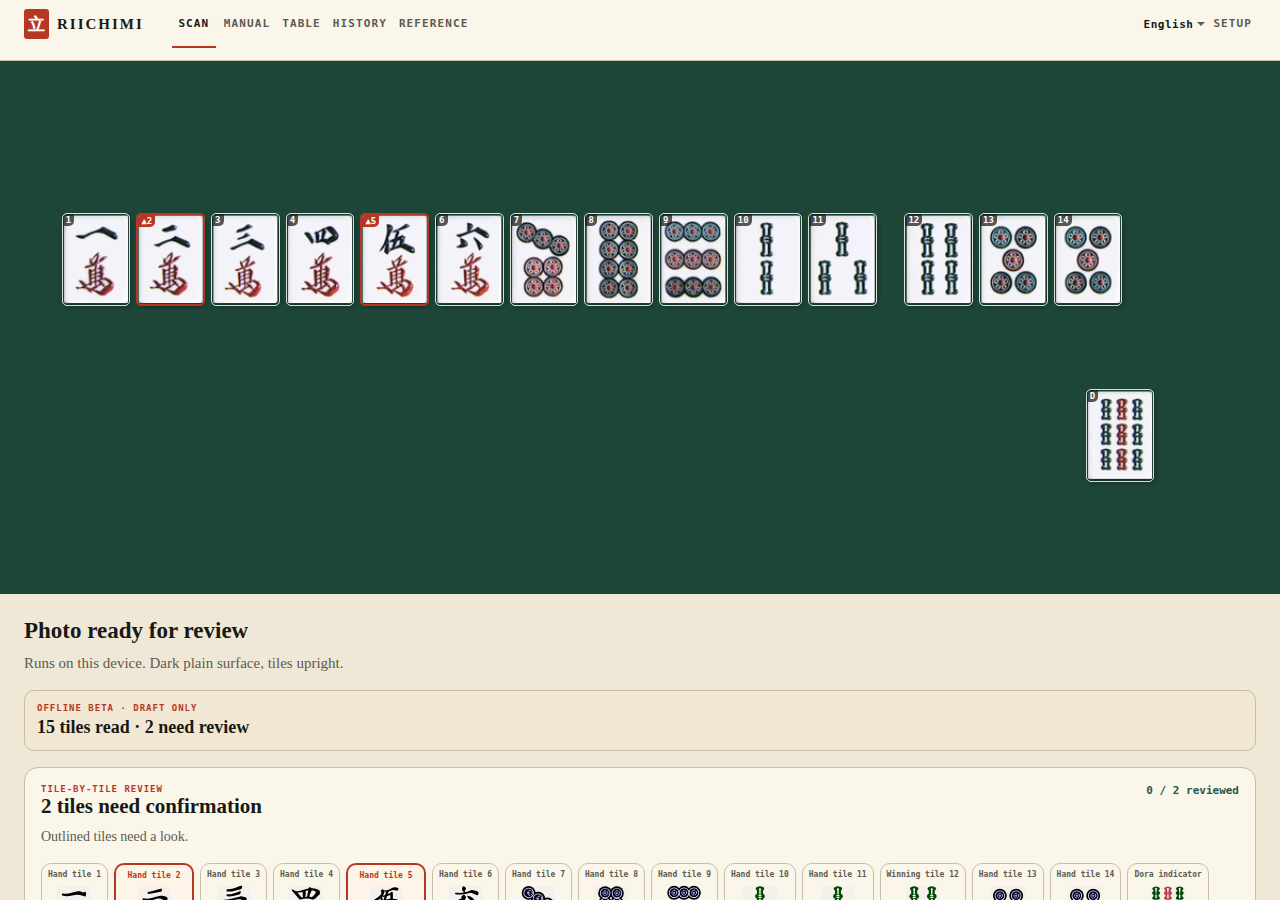
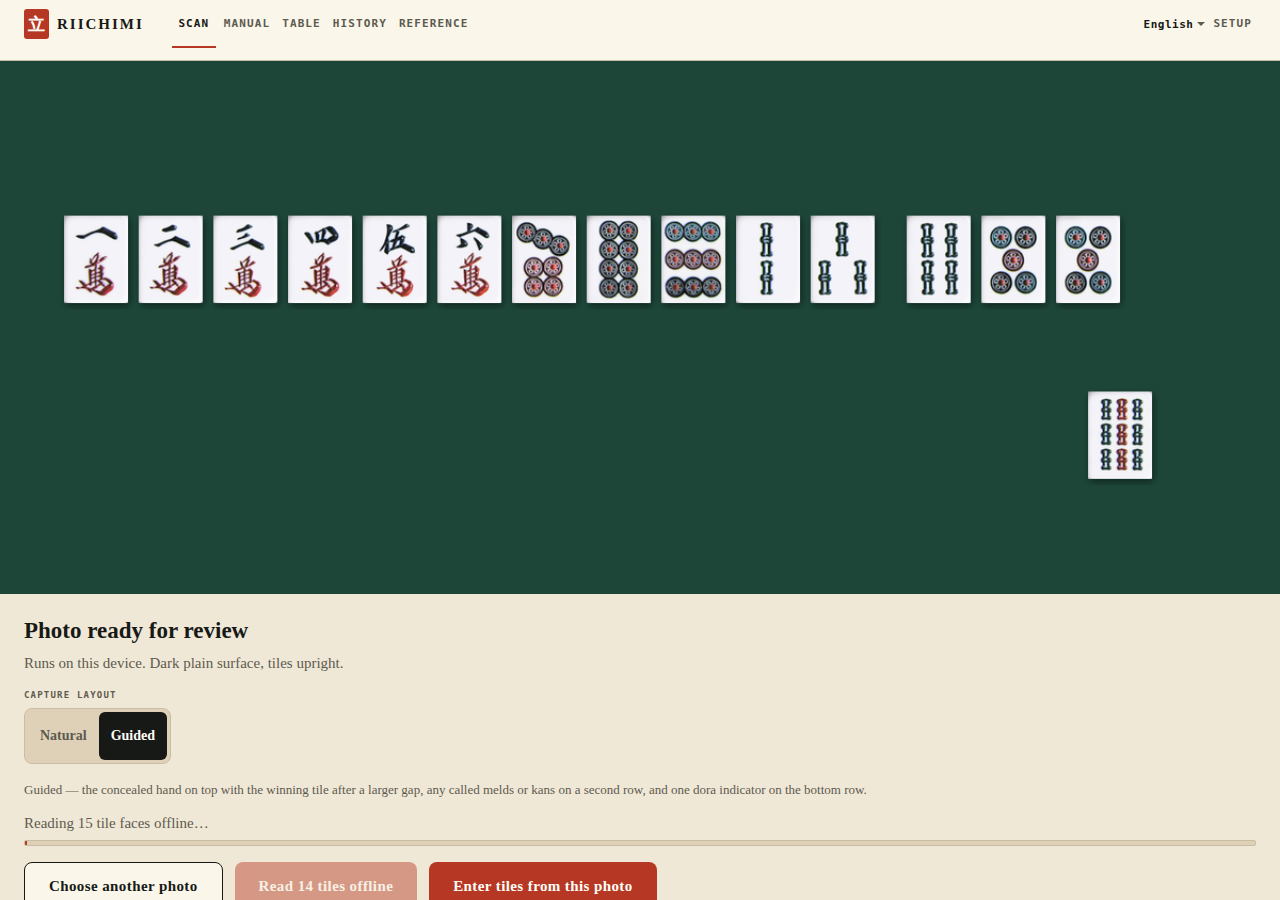
feat: level a turned photo before reading it, instead of asking for a better one
A row turned eight degrees was not read at all. Everything downstream works
by scanline — the band holding the tiles is found by summing edge density
along each row of pixels, the seams between tiles by summing down each
column — so a turned row smears its edges across many scanlines and is never
found. Naming that in the last commit was the smaller half of the fix; a
phone held in one hand is never square, and the rotation is one the computer
can do itself.

Measured on the dogfood fixture, warped:

  level    15 read · 2 review   ->  unchanged
  4°       15 read · 5 review   ->  15 read · 3 review
  8°       failed outright      ->  15 read · 4 review
  12°      failed outright      ->  15 read · 4 review

The canvas grows rather than cropping, because the ends of the row are where
the winning tile and the dora sit. Crops come from the levelled frame, which
is what the classifier was trained on, while every bound handed back is
mapped to the photo the player took, because that is what the review overlay
draws on. A frame already square is returned untouched.

Also corrects the record in the plan. I ran the seventeen personal
photographs through the scanner and read 0 of 17 as a recognizer failure; it
was not. They are whole-table game snapshots — walls, discards, sticks, the
room — and the scanner reads a guided capture of one hand. They are a source
of tile crops, not scan inputs, and the outstanding evidence is still a set
of guided captures across physical tile sets.
[…]

diff --git a/apps/client/src/features/recognition/deskew.ts b/apps/client/src/features/recognition/deskew.ts
@@ -1,0 +1,141 @@
+import type { NormalizedBounds } from "@riichimi/vision";
+
+import type { PixelFrame } from "./guided-layout";
+import { estimateRowTiltDegrees } from "./tile-row";
+
+/**
+ * Turn a photographed row level before anything tries to read it.
+ *
+ * The locator sums edge density along each scanline to find the band holding
+ * the tiles, and sums down each column to find the seams between them. Both
+ * assume the row is level; a row turned a few degrees smears its edges across
+ * many scanlines and is simply never found.
+ *
+ * That is not a corner case. Across seventeen real photographs of games, ten
+ * were turned between six and fourteen degrees and none of the seventeen ever
+ * reached a read. People photograph a table from where they are sitting, and a
+ * phone held in one hand is never square. Asking them to hold it straighter is
+ * not a fix when the answer is a rotation the computer can do itself.
+ */
+
+/** Below this the row reads fine, and rotating costs a copy for nothing. */
+const worthRotatingDegrees = 2;
+
+export interface Deskewed {
+  /** The levelled frame: what the locator reads and what the crops come from. */
+  readonly frame: PixelFrame;
+  /** How far it was turned, or null when it was already level enough. */
+  readonly appliedDegrees: number | null;
+  /**
+   * Puts a box found in the levelled frame back where it belongs on the photo
+   * the player is looking at. The review overlay draws on their photo, not on
+   * ours.
+   */
+  readonly toOriginal: (bounds: NormalizedBounds) => NormalizedBounds;
+}
+
+/** Bilinear sample, so a rotated tile face does not arrive with jagged strokes. */
+function sample(frame: PixelFrame, x: number, y: number, into: Uint8ClampedArray, at: number) {
+  const { data, height, width } = frame;
+  if (x < 0 || y < 0 || x > width - 1 || y > height - 1) {
+    // Outside the photo: the paper the app is drawn on, so an edge tile is not
+    // framed against black.
+    into[at] = 236;
+    into[at + 1] = 232;
+    into[at + 2] = 222;
+    into[at + 3] = 255;
+    return;
+  }
+  const x0 = Math.floor(x);
+  const y0 = Math.floor(y);
+  const x1 = Math.min(width - 1, x0 + 1);
+  const y1 = Math.min(height - 1, y0 + 1);
+  const fx = x - x0;
+  const fy = y - y0;
+  for (let channel = 0; channel < 3; channel += 1) {
+    const topLeft = data[(y0 * width + x0) * 4 + channel] ?? 0;
+    const topRight = data[(y0 * width + x1) * 4 + channel] ?? 0;
+    const bottomLeft = data[(y1 * width + x0) * 4 + channel] ?? 0;
+    const bottomRight = data[(y1 * width + x1) * 4 + channel] ?? 0;
+    const top = topLeft + (topRight - topLeft) * fx;
+    const bottom = bottomLeft + (bottomRight - bottomLeft) * fx;
+    into[at + channel] = top + (bottom - top) * fy;
+  }
+  into[at + 3] = 255;
+}
+
+/**
+ * Level the frame if it is turned. The canvas grows to hold the rotated photo,
+ * so a corner tile is not lost to the crop that levelling would otherwise cost.
+ */
+export function deskewFrame(frame: PixelFrame): Deskewed {
+  const identity = {
+    appliedDegrees: null,
+    frame,
+    toOriginal: (bounds) => bounds,
+  } satisfies Deskewed;
+  const tilt = estimateRowTiltDegrees(frame);
+  if (tilt === null || Math.abs(tilt) < worthRotatingDegrees) {
+    return identity;
+  }
+
+  const radians = (-tilt * Math.PI) / 180;
+  const cos = Math.cos(radians);
+  const sin = Math.sin(radians);
+  const { height, width } = frame;
+  const outWidth = Math.ceil(Math.abs(width * cos) + Math.abs(height * sin));
+  const outHeight = Math.ceil(Math.abs(width * sin) + Math.abs(height * cos));
+  const data = new Uint8ClampedArray(outWidth * outHeight * 4);
+
+  const centreX = width / 2;
+  const centreY = height / 2;
+  const outCentreX = outWidth / 2;
+  const outCentreY = outHeight / 2;
+
+  for (let y = 0; y < outHeight; y += 1) {
+    const dy = y - outCentreY;
+    for (let x = 0; x < outWidth; x += 1) {
+      const dx = x - outCentreX;
+      // Sampled backwards from the destination, which is what keeps the result
+      // free of the holes a forward mapping leaves.
+      sample(
+        frame,
+        centreX + dx * cos + dy * sin,
+        centreY - dx * sin + dy * cos,
+        data,
+        (y * outWidth + x) * 4,
+      );
+    }
+  }
+
+  const toOriginal = (bounds: NormalizedBounds): NormalizedBounds => {
+    const corners = [
+      [bounds.x, bounds.y],
+      [bounds.x + bounds.width, bounds.y],
+      [bounds.x + bounds.width, bounds.y + bounds.height],
+      [bounds.x, bounds.y + bounds.height],
+    ] as const;
+    const mapped = corners.map(([nx, ny]) => {
+      const dx = (nx ?? 0) * outWidth - outCentreX;
+      const dy = (ny ?? 0) * outHeight - outCentreY;
+      return [
+        (centreX + dx * cos + dy * sin) / width,
+        (centreY - dx * sin + dy * cos) / height,
+      ] as const;
+    });
+    const xs = mapped.map(([mx]) => mx);
+    const ys = mapped.map(([, my]) => my);
+    const left = Math.min(...xs);
+    const top = Math.min(...ys);
+    // The upright box around the turned one: the overlay draws rectangles, and
+    // a box that contains the tile is honest where a turned one cannot be drawn.
+    return {
+      height: Math.max(...ys) - top,
+      width: Math.max(...xs) - left,
+      x: left,
+      y: top,
+    };
+  };
+
+  return { appliedDegrees: tilt, frame: { data, height: outHeight, width: outWidth }, toOriginal };
+}

diff --git a/apps/client/src/features/recognition/deskew.test.ts b/apps/client/src/features/recognition/deskew.test.ts
@@ -1,0 +1,82 @@
+import { describe, expect, it } from "vitest";
+
+import { deskewFrame } from "./deskew";
+import type { PixelFrame } from "./guided-layout";
+
+/** A row of dark tile faces on a pale table, drawn at a given angle. */
+function rowAtAngle(degrees: number): PixelFrame {
+  const width = 320;
+  const height = 160;
+  const data = new Uint8ClampedArray(width * height * 4);
+  const slope = Math.tan((degrees * Math.PI) / 180);
+  for (let y = 0; y < height; y += 1) {
+    for (let x = 0; x < width; x += 1) {
+      const centre = height / 2 + (x - width / 2) * slope;
+      const onRow = Math.abs(y - centre) < 26 && x % 26 < 21 && x > 30 && x < width - 30;
+      const value = onRow ? 40 : 232;
+      const index = (y * width + x) * 4;
+      data[index] = value;
+      data[index + 1] = value;
+      data[index + 2] = value;
+      data[index + 3] = 255;
+    }
+  }
+  return { data, height, width };
+}
+
+describe("levelling a photographed row", () => {
+  it("leaves a level frame exactly as it found it", () => {
+    const frame = rowAtAngle(0);
+    const deskewed = deskewFrame(frame);
+
+    // Not merely equivalent: the same object, so a square photo costs no copy.
+    expect(deskewed.appliedDegrees).toBeNull();
+    expect(deskewed.frame).toBe(frame);
+  });
+
+  it("levels a turned frame, and says by how much", () => {
+    const deskewed = deskewFrame(rowAtAngle(10));
+
+    expect(deskewed.appliedDegrees).not.toBeNull();
+    expect(Math.abs(deskewed.appliedDegrees ?? 0)).toBeGreaterThanOrEqual(8);
+  });
+
+  it("grows the canvas rather than cropping the corners off the photo", () => {
+    const frame = rowAtAngle(12);
+    const deskewed = deskewFrame(frame);
+
+    // A rotation inside the original bounds would cut the ends off the row,
+    // which is where the winning tile and the dora sit.
+    expect(deskewed.frame.width).toBeGreaterThan(frame.width);
+    expect(deskewed.frame.height).toBeGreaterThan(frame.height);
+    expect(deskewed.frame.data.length).toBe(deskewed.frame.width * deskewed.frame.height * 4);
+  });
+
+  it("puts a box found in the levelled frame back onto the player's photo", () => {
+    const deskewed = deskewFrame(rowAtAngle(10));
+
+    // The middle of the levelled frame is the middle of the original: rotation
+    // is about the centre, so that point is the one the mapping cannot move.
+    const centre = deskewed.toOriginal({ height: 0.02, width: 0.02, x: 0.49, y: 0.49 });
+    expect(centre.x + centre.width / 2).toBeCloseTo(0.5, 1);
+    expect(centre.y + centre.height / 2).toBeCloseTo(0.5, 1);
+  });
+
+  it("maps every box back inside the photo it came from", () => {
+    const deskewed = deskewFrame(rowAtAngle(10));
+
+    for (const x of [0.2, 0.5, 0.8]) {
+      const mapped = deskewed.toOriginal({ height: 0.15, width: 0.06, x, y: 0.45 });
+      expect(mapped.width).toBeGreaterThan(0);
+      expect(mapped.height).toBeGreaterThan(0);
+      // Upright box around a turned one, so it is at least as large as the tile.
+      expect(mapped.width).toBeGreaterThanOrEqual(0.06 * 0.9);
+    }
+  });
+
+  it("says nothing of a frame too small to measure", () => {
+    const tiny: PixelFrame = { data: new Uint8ClampedArray(8 * 8 * 4), height: 8, width: 8 };
+
+    expect(deskewFrame(tiny).appliedDegrees).toBeNull();
+  });
+});

diff --git a/apps/client/src/features/recognition/recognize-pixel-frame.ts b/apps/client/src/features/recognition/recognize-pixel-frame.ts
@@ -7,6 +7,7 @@ import type {
 } from "@riichimi/vision";
 
 import { inspectFrameExposure, inspectFrameTilt, inspectLocatedCapture } from "./capture-quality";
+import { deskewFrame } from "./deskew";
 import type { CaptureQualityIssueKind } from "./capture-quality";
 import { classifyBatchLogits } from "./classifier-output";
 import { locateGuidedTiles } from "./guided-layout";
@@ -43,20 +44,24 @@ export async function recognizePixelFrame(
   if (exposureIssue !== null) {
     throw new GuidedRecognitionError(exposureIssue.kind, exposureIssue.message);
   }
+  // Level the photo before reading it. Everything downstream works by scanline,
+  // so a row turned even a few degrees is never found — and people photograph a
+  // table from where they are sitting, so most photos are turned.
+  const deskewed = deskewFrame(frame);
+  const reading = deskewed.frame;
   const layout =
-    captureLayout === "natural" ? locateSingleRowTiles(frame) : locateGuidedTiles(frame);
+    captureLayout === "natural" ? locateSingleRowTiles(reading) : locateGuidedTiles(reading);
   if (layout.kind === "failure") {
-    // A turned row is not found at all, so its failure arrives here with
-    // nothing measured and nothing to say. Asked now, the frame can still
-    // explain itself — and "square the camera up" is a fix a player can act on,
-    // where "retry with another photo" is a dead end.
+    // Turned so far that levelling could not rescue it. The frame can still say
+    // so, which is a fix a player can act on where "retry with another photo"
+    // is a dead end.
     const tiltIssue = inspectFrameTilt(frame);
     if (tiltIssue !== null) {
       throw new GuidedRecognitionError(tiltIssue.kind, tiltIssue.message);
     }
     throw new GuidedRecognitionError("layout", layout.message);
   }
-  const qualityIssue = inspectLocatedCapture(frame, layout);
+  const qualityIssue = inspectLocatedCapture(reading, layout);
   if (qualityIssue !== null) {
     throw new GuidedRecognitionError(qualityIssue.kind, qualityIssue.message);
   }
@@ -81,7 +86,10 @@ export async function recognizePixelFrame(
   });
   slots.push({ bounds: layout.dora, id: "dora-0", role: "dora", winning: false });
 
-  const batch = combineTileTensors(slots.map((slot) => cropTileTensor(frame, slot.bounds)));
+  // Cropped from the levelled frame — a tile face read square is what the
+  // classifier was trained on — while every bound handed back is mapped to the
+  // photo the player took, because that is what the review overlay draws on.
+  const batch = combineTileTensors(slots.map((slot) => cropTileTensor(reading, slot.bounds)));
   const logits = await runClassifier(batch, [slots.length, 3, tileTensorHeight, tileTensorWidth]);
   const classifications = classifyBatchLogits(logits, slots.length);
   const detections: DetectedTile[] = slots.map((slot, index) => {
@@ -89,7 +97,7 @@ export async function recognizePixelFrame(
     const confidence = classification?.confidence ?? 0;
     return {
       alternatives: classification?.alternatives ?? [],
-      bounds: slot.bounds,
+      bounds: deskewed.toOriginal(slot.bounds),
       confidence:
         slot.winning && !layout.winningRoleCertain ? Math.min(0.5, confidence) : confidence,
       id: slot.id,

diff --git a/docs/riichi-score-calculator-plan.md b/docs/riichi-score-calculator-plan.md
@@ -12,7 +12,8 @@ Build a mobile and web riichi mahjong calculator that turns a photo of a winning
 - Complete: a reference of every yaku, the fu table, and what each ruleset decides, generated from the same catalogues the scorer builds its awards from — so a name, a han value, or an audit line cannot say one thing on the reference and another under a score.
 - Complete: local four-player sessions with riichi deposits, transfers, draws, dealer/round progression, history, recovery, deletion, and undo.
 - Complete: camera permission/capture flow, camera and gallery photo review, Android pending-picker recovery, photo-reference manual fallback, recognition contracts, confidence review, structural checks, tile-by-tile correction, winner reassignment, and a hard no-score-until-reviewed transition.
-- Complete: deterministic local blur, glare, edge-crop, excessive-perspective, and frame-tilt diagnostics with specific retry guidance and manual escape paths. Measured against synthetically warped fixtures, keystone perspective degrades gracefully (all 15 tiles located to 60%, confidence falling), while in-plane rotation is the hard limit: the row band is found by scanline, so a turn past about 4° loses it entirely. That failure now names the angle instead of ending in a generic retry.
+- Complete: deterministic local blur, glare, edge-crop, excessive-perspective, and frame-tilt diagnostics with specific retry guidance and manual escape paths, plus automatic levelling before the read. Measured against synthetically warped dogfood fixtures: keystone perspective degrades gracefully (all 15 tiles located to 60%, confidence falling), and in-plane rotation — which used to fail outright past about 4°, because the row band is found by scanline — now reads in full at 8° and 12°. A turn too far to rescue names its own angle rather than ending in a generic retry.
+- Not yet measured: the scanner has never been run against a guided capture taken on a real phone. The seventeen personal photographs held for this purpose are whole-table game snapshots — walls, discards, sticks, the room — and are a source of tile crops for the classifier, not end-to-end scan inputs. A representative set of _guided_ captures across physical tile sets remains the outstanding evidence.
 - Complete: a tested model-release manifest gate for artifact integrity, provenance, input shape, full class coverage, evaluation size, and accuracy thresholds.
 - Complete: persisted WRC 2025 and explicit red-five-table profiles drive the tile picker and scorer, migrate safely, and pin atomically to a table through reload and undo.
 - Complete: progressive-enhancement WebMCP discovery and typed tools for app state, rules selection, navigation, manual scoring, score-history inspection, local table mutation, and undo, with visible browser dogfood coverage.
